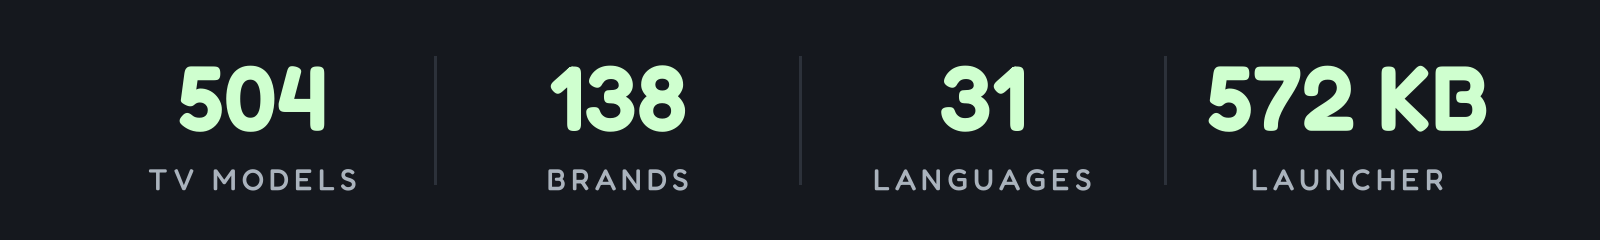
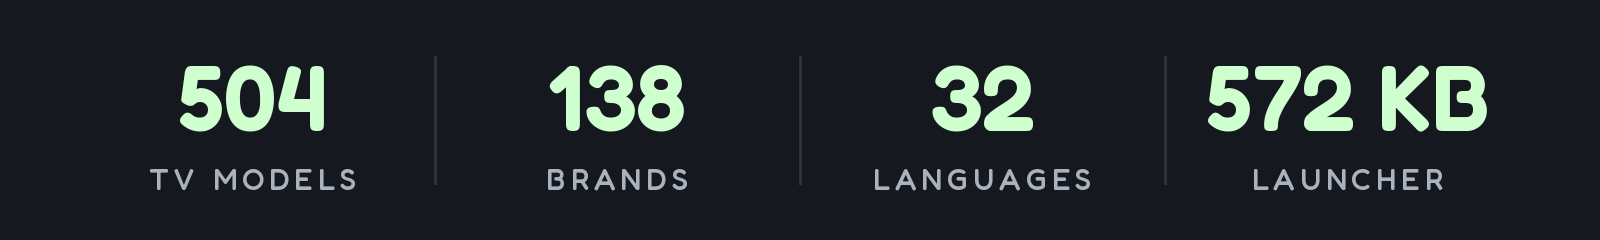
launcher: Japanese (values-ja), rebuilt on 3.6
All 145 strings and the one plurals resource, written for a television: labels
short enough for a tile, 設定 and アプリ and 壁紙 where Japanese says them,
product names left alone. Wired through locales_config.xml, the Languages list
in docs/launcher.md and NAMES in tests/test_locales_registered.py; the tables
were regenerated (thirty-two languages) and both pictures redrawn from them.

diff --git a/tools/readme_stats.py b/tools/readme_stats.py
@@ -102,7 +102,7 @@ try:
 except ImportError:
     sys.exit("readme_stats.py needs Pillow: tools/venv/bin/pip install -r tools/requirements-perf.txt")
 
-STATS = [("504", "TV MODELS"), ("138", "BRANDS"), ("31", "LANGUAGES"), ("572 KB", "LAUNCHER")]
+STATS = [("504", "TV MODELS"), ("138", "BRANDS"), ("32", "LANGUAGES"), ("572 KB", "LAUNCHER")]
 W, H = 1600, 240
 img = Image.new("RGB", (W, H), "#15181e"); d = ImageDraw.Draw(img)
 def f(size, wt):

diff --git a/tests/test_locales_registered.py b/tests/test_locales_registered.py
@@ -52,6 +52,7 @@ NAMES = {
     "in": "Indonesian",
     "it": "Italian",
     "iw": "Hebrew",
+    "ja": "Japanese",
     "ko": "Korean",
     "nb": "Norwegian Bokm\u00e5l",
     "nl": "Dutch",

diff --git a/README.uk.md b/README.uk.md
@@ -16,7 +16,7 @@
 </p>
 
 <p align="center">
-  <a href="docs/PRESS.md"><img src="docs/card.jpg" alt="504 моделі телевізорів · 138 брендів · 31 мова · лончер на 572 КБ. Про нас писали TechCrunch, TechRadar, Tom's Guide, Mashable, Android Authority, XDA, FlatpanelsHD, It's FOSS, Phandroid, GIGAZINE, Xataka, WinFuture, Frandroid, Macitynet, Techaeris, TechPP та ще 530 видань: 546 статті з 57 країн. Було: стандартний головний екран Google TV зі спонсорською рекламою. Стало: лончер Clean Your TV. Репозиторій №1 у трендах тижня, 19–25 жовтня 2026, через trendshift.io." width="800"></a>
+  <a href="docs/PRESS.md"><img src="docs/card.jpg" alt="504 моделі телевізорів · 138 брендів · 32 мови · лончер на 572 КБ. Про нас писали TechCrunch, TechRadar, Tom's Guide, Mashable, Android Authority, XDA, FlatpanelsHD, It's FOSS, Phandroid, GIGAZINE, Xataka, WinFuture, Frandroid, Macitynet, Techaeris, TechPP та ще 530 видань: 546 статті з 57 країн. Було: стандартний головний екран Google TV зі спонсорською рекламою. Стало: лончер Clean Your TV. Репозиторій №1 у трендах тижня, 19–25 жовтня 2026, через trendshift.io." width="800"></a>
 </p>
 
 ## З чого почати
@@ -281,7 +281,7 @@ Xiaomi (PatchWall). Передайте `STOCK_LAUNCHER=<package>` (`-StockLaunch
 | **Налаштування** | Порядок дока, приховані застосунки, застосунок ефірного ТБ, від 4 до 7 плиток у рядку, зменшений рух. Усе в [`config.xml`](launcher/app/src/main/res/values/config.xml) |
 | **Налаштування на телевізорі** | Утримайте OK на «Налаштуваннях», щоб відкрити налаштування лончера. Необов'язковий `launcher_settings_button` робить так, що звичайне натискання відкриває їх одразу; налаштування телевізора лишаються на сторінці налаштувань і на своїй плитці |
 | **Теми** | Тло, шпалери й розкладка з `config.json`, надісланого через Wi-Fi, без перезбирання. У [`themes/`](themes/) постачається тридцять три, включно з вбудованою `default/` |
-| **31 мова** | Дотримується мови телевізора, з повністю дзеркальним розкладом справа наліво для івриту |
+| **32 мови** | Дотримується мови телевізора, з повністю дзеркальним розкладом справа наліво для івриту |
 | **Бібліотека застосунків** | Необов'язково: перегляд усіх встановлених застосунків і додавання чи прибирання ярликів із головного екрана. Дивіться [посібник із бібліотеки застосунків](docs/app-library.md) |
 | **Меню плитки** | Увімкнено за замовчуванням (`tile_menu`): утримайте OK на плитці для «Перемістити» та «Про застосунок», а з увімкненою бібліотекою застосунків — ще й «Прибрати з головного». Вимкнено — утримання OK відкриває «Про застосунок» |
 | **Картки-модулі** | Будь-який застосунок на телевізорі може запропонувати власну плитку; ви схвалюєте кожну один раз. Дивіться [`docs/modules.md`](docs/modules.md) |

diff --git a/README.nl.md b/README.nl.md
@@ -29,7 +29,7 @@
 </p>
 
 <p align="center">
-  <a href="docs/PRESS.md"><img src="docs/card.jpg" alt="504 tv-modellen · 138 merken · 31 talen · launcher van 572 KB. Genoemd in TechCrunch, TechRadar, Tom's Guide, Mashable, Android Authority, XDA, FlatpanelsHD, It's FOSS, Phandroid, GIGAZINE, Xataka, WinFuture, Frandroid, Macitynet, Techaeris, TechPP en nog 530 media: 546 artikelen uit 57 landen. Voorheen: het standaard Google TV-startscherm met een gesponsorde advertentie. Daarna: de Clean Your TV-launcher. #1 trending repository van de week, 19–25 oktober 2026, via trendshift.io." width="800"></a>
+  <a href="docs/PRESS.md"><img src="docs/card.jpg" alt="504 tv-modellen · 138 merken · 32 talen · launcher van 572 KB. Genoemd in TechCrunch, TechRadar, Tom's Guide, Mashable, Android Authority, XDA, FlatpanelsHD, It's FOSS, Phandroid, GIGAZINE, Xataka, WinFuture, Frandroid, Macitynet, Techaeris, TechPP en nog 530 media: 546 artikelen uit 57 landen. Voorheen: het standaard Google TV-startscherm met een gesponsorde advertentie. Daarna: de Clean Your TV-launcher. #1 trending repository van de week, 19–25 oktober 2026, via trendshift.io." width="800"></a>
 </p>
 
 **De virale tweet:** [x.com/gathint/status/2111379569030939102](https://x.com/gathint/status/2111379569030939102)
@@ -761,7 +761,7 @@ De **tv** moet Android 8.0 (API 26) of nieuwer gebruiken. `minSdk` stelt de mini
 | **Configuratie** | Volgorde van het dock, verborgen apps, Live-tv-app, 4 tot 7 tegels per rij en minder beweging. Alles staat in [`config.xml`](launcher/app/src/main/res/values/config.xml). |
 | **Instellingen op de tv** | Houd OK ingedrukt op Instellingen om de launcherinstellingen te openen. Met de optionele instelling `launcher_settings_button` opent een gewone klik ze direct; de tv-instellingen blijven beschikbaar via de instellingenpagina en de tegel van die app. |
 | **Thema's** | Achtergrond, wallpaper en indeling komen uit een via wifi verzonden `config.json`; opnieuw bouwen is niet nodig. In [`themes/`](themes/) staan drieëndertig thema's, inclusief het ingebouwde `default/`. |
-| **31 talen** | Volgt de taal van de tv, met een volledig gespiegeld rechts-naar-links ontwerp voor Hebreeuws. |
+| **32 talen** | Volgt de taal van de tv, met een volledig gespiegeld rechts-naar-links ontwerp voor Hebreeuws. |
 | **Appbibliotheek** | Optioneel: bekijk alle geïnstalleerde apps en voeg snelkoppelingen op het startscherm toe of verwijder ze. Zie [de handleiding voor de appbibliotheek](docs/app-library.md). |
 | **Tegelmenu** | Standaard aan (`tile_menu`): houd OK ingedrukt op een tegel voor Verplaatsen en App-info, en met de appbibliotheek aan ook Verwijderen van startscherm. Staat dit uit, dan opent lang indrukken de app-info. |
 | **Modulekaarten** | Elke tv-app kan een eigen tegel aanbieden; je keurt elke app één keer goed. Zie [`docs/modules.md`](docs/modules.md). |

diff --git a/README.tr.md b/README.tr.md
@@ -16,7 +16,7 @@
 </p>
 
 <p align="center">
-  <a href="docs/PRESS.md"><img src="docs/card.jpg" alt="504 TV modeli · 138 marka · 31 dil · 572 KB başlatıcı. Yer aldığı yayınlar: TechCrunch, TechRadar, Tom's Guide, Mashable, Android Authority, XDA, FlatpanelsHD, It's FOSS, Phandroid, GIGAZINE, Xataka, WinFuture, Frandroid, Macitynet, Techaeris, TechPP ve 530 yayın daha: 57 ülkeden 546 makale. Önce: sponsorlu reklam içeren standart Google TV ana ekranı. Sonra: Clean Your TV başlatıcısı. Haftanın 1 numaralı trend deposu, 19–25 Ekim 2026, trendshift.io'ya göre." width="800"></a>
+  <a href="docs/PRESS.md"><img src="docs/card.jpg" alt="504 TV modeli · 138 marka · 32 dil · 572 KB başlatıcı. Yer aldığı yayınlar: TechCrunch, TechRadar, Tom's Guide, Mashable, Android Authority, XDA, FlatpanelsHD, It's FOSS, Phandroid, GIGAZINE, Xataka, WinFuture, Frandroid, Macitynet, Techaeris, TechPP ve 530 yayın daha: 57 ülkeden 546 makale. Önce: sponsorlu reklam içeren standart Google TV ana ekranı. Sonra: Clean Your TV başlatıcısı. Haftanın 1 numaralı trend deposu, 19–25 Ekim 2026, trendshift.io'ya göre." width="800"></a>
 </p>
 
 ## Buradan başlayın
@@ -280,7 +280,7 @@ bir cihazda neyin kaldığı [Sorun giderme](docs/TROUBLESHOOTING.md) belgesinde
 | **Yapılandırma** | Dock sırası, gizli uygulamalar, Canlı TV uygulaması, satır başına 4 ile 7 arası kutucuk, azaltılmış hareket. Hepsi [`config.xml`](launcher/app/src/main/res/values/config.xml) içinde |
 | **TV'deki ayarlar** | Başlatıcı ayarları için Ayarlar üzerinde OK'u basılı tutun. İsteğe bağlı `launcher_settings_button`, normal bir tıklamanın onları doğrudan açmasını sağlar; TV ayarları ayarlar sayfasında ve kendi uygulama kutucuğunda kalır. |
 | **Temalar** | Wi-Fi üzerinden gönderilen bir `config.json` ile arka plan, duvar kâğıdı ve düzen, yeniden derleme yok. Yerleşik `default/` dahil 33 tema [`themes/`](themes/) içinde gelir |
-| **31 dil** | TV'nin diline uyar; İbranice için tamamen aynalanmış, sağdan sola bir düzen sunar |
+| **32 dil** | TV'nin diline uyar; İbranice için tamamen aynalanmış, sağdan sola bir düzen sunar |
 | **Uygulama kitaplığı** | İsteğe bağlı: yüklü tüm uygulamalara göz atın ve Ana ekran kısayolları ekleyin veya kaldırın. Bkz. [uygulama kitaplığı kılavuzu](docs/app-library.md) |
 | **Kutucuk menüsü** | Varsayılan olarak açık (`tile_menu`): Taşı ve Uygulama bilgisi için bir kutucukta OK'u basılı tutun; uygulama kitaplığı açıksa Ana ekrandan kaldır da çıkar. Kapalıyken OK'u basılı tutmak Uygulama bilgisini açar |
 | **Modül kartları** | Herhangi bir TV uygulaması kendi kutucuğunu sunabilir; her birini bir kez onaylarsınız. Bkz. [`docs/modules.md`](docs/modules.md) |

diff --git a/README.de.md b/README.de.md
@@ -16,7 +16,7 @@
 </p>
 
 <p align="center">
-  <a href="docs/PRESS.md"><img src="docs/card.jpg" alt="504 TV-Modelle · 138 Marken · 31 Sprachen · Launcher mit 572 KB. Erwähnt in TechCrunch, TechRadar, Tom's Guide, Mashable, Android Authority, XDA, FlatpanelsHD, It's FOSS, Phandroid, GIGAZINE, Xataka, WinFuture, Frandroid, Macitynet, Techaeris, TechPP und 530 weitere: 546 Artikel aus 57 Ländern. Vorher: der Google-TV-Startbildschirm mit einer bezahlten Anzeige. Nachher: der Clean-Your-TV-Launcher. Platz 1 der Trend-Repositories der Woche, 19.–25. Oktober 2026, über trendshift.io." width="800"></a>
+  <a href="docs/PRESS.md"><img src="docs/card.jpg" alt="504 TV-Modelle · 138 Marken · 32 Sprachen · Launcher mit 572 KB. Erwähnt in TechCrunch, TechRadar, Tom's Guide, Mashable, Android Authority, XDA, FlatpanelsHD, It's FOSS, Phandroid, GIGAZINE, Xataka, WinFuture, Frandroid, Macitynet, Techaeris, TechPP und 530 weitere: 546 Artikel aus 57 Ländern. Vorher: der Google-TV-Startbildschirm mit einer bezahlten Anzeige. Nachher: der Clean-Your-TV-Launcher. Platz 1 der Trend-Repositories der Woche, 19.–25. Oktober 2026, über trendshift.io." width="800"></a>
 </p>
 
 ## Einstieg
@@ -258,7 +258,7 @@ Gerät übrig bleibt, steht in der [Fehlerbehebung](docs/TROUBLESHOOTING.md).
 | **Einrichten** | Dock-Reihenfolge, versteckte Apps, Live-TV-App, 4 bis 7 Kacheln je Zeile, reduzierte Bewegung. Alles in [`config.xml`](launcher/app/src/main/res/values/config.xml) |
 | **Einstellungen am Fernseher** | OK auf Einstellungen halten für die Launcher-Einstellungen. Ein optionales `launcher_settings_button` lässt einen normalen Klick sie direkt öffnen; die TV-Einstellungen bleiben auf der Einstellungsseite und ihrer App-Kachel. |
 | **Themes** | Hintergrund, Wallpaper und Layout aus einer `config.json`, über WLAN aufgespielt, ohne neuen Build. Dreiunddreißig liegen in [`themes/`](themes/), das eingebaute `default/` mitgerechnet |
-| **31 Sprachen** | Folgt der Sprache des Fernsehers, mit vollständig gespiegeltem Layout von rechts nach links für Hebräisch |
+| **32 Sprachen** | Folgt der Sprache des Fernsehers, mit vollständig gespiegeltem Layout von rechts nach links für Hebräisch |
 | **App-Bibliothek** | Optional: jede installierte App durchsehen und Home-Verknüpfungen hinzufügen oder entfernen. Siehe [die Anleitung zur App-Bibliothek](docs/app-library.md) |
 | **Kachelmenü** | Standardmäßig an (`tile_menu`): OK auf einer Kachel halten für Verschieben und App-Info, mit eingeschalteter App-Bibliothek auch Von Home entfernen. Aus: OK halten öffnet App-Info |
 | **Modul-Karten** | Jede TV-App kann eine eigene Kachel anbieten; du stimmst jeder einmal zu. Siehe [`docs/modules.md`](docs/modules.md) |

diff --git a/README.md b/README.md
@@ -16,7 +16,7 @@
 </p>
 
 <p align="center">
-  <a href="docs/PRESS.md"><img src="docs/card.jpg" alt="504 TV models · 138 brands · 31 languages · 572 KB launcher. Featured in TechCrunch, TechRadar, Tom's Guide, Mashable, Android Authority, XDA, FlatpanelsHD, It's FOSS, Phandroid, GIGAZINE, Xataka, WinFuture, Frandroid, Macitynet, Techaeris, TechPP and 530 more: 546 articles from 57 countries. Before: stock Google TV home with a sponsored ad. After: the Clean Your TV launcher. #1 trending repo of the week, Oct 19–25 2026, via trendshift.io." width="800"></a>
+  <a href="docs/PRESS.md"><img src="docs/card.jpg" alt="504 TV models · 138 brands · 32 languages · 572 KB launcher. Featured in TechCrunch, TechRadar, Tom's Guide, Mashable, Android Authority, XDA, FlatpanelsHD, It's FOSS, Phandroid, GIGAZINE, Xataka, WinFuture, Frandroid, Macitynet, Techaeris, TechPP and 530 more: 546 articles from 57 countries. Before: stock Google TV home with a sponsored ad. After: the Clean Your TV launcher. #1 trending repo of the week, Oct 19–25 2026, via trendshift.io." width="800"></a>
 </p>
 
 ## Start here
@@ -283,7 +283,7 @@ set is in [Troubleshooting](docs/TROUBLESHOOTING.md).
 | **Configure** | Dock order, hidden apps, Live TV app, 4 to 7 tiles per row, reduced motion. All in [`config.xml`](launcher/app/src/main/res/values/config.xml) |
 | **Settings on the TV** | Hold OK on Settings for launcher settings. Optional `launcher_settings_button` makes a normal click open them directly; TV settings remain on the settings page and their app tile. |
 | **Themes** | Background, wallpaper and layout from a `config.json` pushed over Wi-Fi, no rebuild. Thirty-three ship in [`themes/`](themes/), the built-in `default/` included |
-| **31 languages** | Follows the TV's language, with a fully mirrored right-to-left layout for Hebrew |
+| **32 languages** | Follows the TV's language, with a fully mirrored right-to-left layout for Hebrew |
 | **App library** | Optional: browse every installed app and add or remove Home shortcuts. See [the app library guide](docs/app-library.md) |
 | **Tile menu** | On by default (`tile_menu`): hold OK on a tile for Move and App info, plus Remove from Home when the app library is on. Off, holding OK opens App info |
 | **Module cards** | Any TV app can offer its own tile; you approve each one once. See [`docs/modules.md`](docs/modules.md) |

diff --git a/README.he.md b/README.he.md
@@ -239,7 +239,7 @@ TV_HOST=192.168.1.50 tools/venv/bin/python -I tools/privacy.py
 | **התאמה אישית** | סדר המועדפים, אפליקציות מוסתרות, אפליקציית שידור חי, 4 עד 7 אריחים בשורה והפחתת תנועה. ההגדרות נמצאות ב־[config.xml](launcher/app/src/main/res/values/config.xml). |
 | **הגדרות בטלוויזיה** | לחיצה ארוכה על OK בכפתור ההגדרות פותחת את הגדרות מסך הבית. עם <code dir="ltr">launcher_settings_button</code> מספיקה לחיצה רגילה. הגדרות הטלוויזיה זמינות גם מדף ההגדרות ומאריח האפליקציה. |
 | **ערכות עיצוב** | רקע, תמונה ופריסה מקובץ <code dir="ltr">config.json</code> שנשלח דרך הרשת. יש 33 ערכות ב־[themes](themes/), כולל ברירת המחדל. |
-| **31 שפות** | השפה נקבעת לפי הטלוויזיה. בעברית הפריסה מוצגת מימין לשמאל. |
+| **32 שפות** | השפה נקבעת לפי הטלוויזיה. בעברית הפריסה מוצגת מימין לשמאל. |
 | **ספריית אפליקציות** | אפשר לדפדף בכל האפליקציות המותקנות ולהוסיף או להסיר קיצורי דרך ממסך הבית. [מדריך](docs/app-library.md) |
 | **תפריט אריח** | <code dir="ltr">tile_menu</code> מופעל כברירת מחדל. לחיצה ארוכה על OK מאפשרת להזיז אריח ולפתוח פרטי אפליקציה. כשספריית האפליקציות מופעלת אפשר גם להסיר את האריח מהבית. כשהתפריט כבוי, לחיצה ארוכה פותחת את פרטי האפליקציה. |
 | **כרטיסי תוספים** | אפליקציות יכולות להציע אריח שמוצג לאחר אישור חד־פעמי. [מפרט הכרטיסים](docs/modules.md) |

diff --git a/README.es.md b/README.es.md
@@ -220,7 +220,7 @@ Una pantalla de inicio nativa y muy ligera para Android TV: **unos 572 KB**, pro
 | **Configuración** | Orden del dock, aplicaciones ocultas, app de TV en directo, de 4 a 7 elementos por fila y animaciones reducidas. Todo definido en [`config.xml`](launcher/app/src/main/res/values/config.xml). |
 | **Ajustes en el televisor** | Mantén OK pulsado en Ajustes para acceder a las opciones del launcher. Opcionalmente, `launcher_settings_button` permite que una pulsación simple las abra directamente; la configuración del televisor continúa accesible desde la propia página de ajustes y mediante el icono correspondiente. |
 | **Temas** | Fondo, fondo de pantalla y diseño definidos en un `config.json` enviado por Wi-Fi, sin recompilar. 33 temas están incluidos en [`themes/`](themes/), incluyendo el `default/` integrado. |
-| **31 idiomas** | Sigue el idioma del televisor, con un diseño totalmente reflejado de derecha a izquierda en hebreo. |
+| **32 idiomas** | Sigue el idioma del televisor, con un diseño totalmente reflejado de derecha a izquierda en hebreo. |
 | **Biblioteca de aplicaciones** | Opcional: permite explorar todas las aplicaciones instaladas y agregar o retirar accesos directos de la pantalla de inicio. Consulta [la guía de la biblioteca de aplicaciones](docs/app-library.md). |
 | **Menú contextual de elementos** | Habilitado por defecto (`tile_menu`): mantén OK pulsado sobre un elemento para acceder a Mover, Quitar de la pantalla de inicio e Información de la app. Si se desactiva, mantener OK pulsado abre Información de la app directamente. |
 | **Tarjetas de módulos** | Cualquier aplicación de TV puede incorporar su propio bloque informativo; autorizas cada una una sola vez. Consulta [`docs/modules.md`](docs/modules.md). |

diff --git a/README.fr.md b/README.fr.md
@@ -285,7 +285,7 @@ décrit dans le [dépannage](docs/TROUBLESHOOTING.md).
 | **Configuration** | Ordre du dock, applications masquées, application de TV en direct, de 4 à 7 vignettes par rangée, animations réduites. Tout se trouve dans [`config.xml`](launcher/app/src/main/res/values/config.xml) |
 | **Réglages sur le téléviseur** | Maintenez OK sur Paramètres pour ouvrir les réglages du launcher. L'option `launcher_settings_button` permet de les ouvrir directement d'un simple clic ; les réglages du téléviseur restent accessibles depuis la page des réglages et leur vignette d'application. |
 | **Thèmes** | Arrière-plan, fond d'écran et disposition à partir d'un `config.json` envoyé par Wi-Fi, sans recompilation. 33 thèmes sont fournis dans [`themes/`](themes/), y compris le `default/` intégré |
-| **31 langues** | Suit la langue du téléviseur, avec une disposition de droite à gauche entièrement inversée pour l'hébreu |
+| **32 langues** | Suit la langue du téléviseur, avec une disposition de droite à gauche entièrement inversée pour l'hébreu |
 | **Bibliothèque d'applications** | Facultative : parcourez toutes les applications installées et ajoutez ou retirez des raccourcis sur l'accueil. Voir [le guide de la bibliothèque d'applications](docs/app-library.md) |
 | **Menu des vignettes** | Activé par défaut (`tile_menu`) : maintenez OK sur une vignette pour Déplacer et Infos sur l'appli, plus Retirer de l'accueil lorsque la bibliothèque d'applications est activée. Désactivé, maintenir OK ouvre Infos sur l'appli |
 | **Cartes de modules** | N'importe quelle application TV peut proposer sa propre vignette ; vous approuvez chacune une seule fois. Voir [`docs/modules.md`](docs/modules.md) |

diff --git a/README.pt-BR.md b/README.pt-BR.md
@@ -284,7 +284,7 @@ explicado em [Solução de problemas](docs/TROUBLESHOOTING.md).
 | **Configuração** | Ordem do dock, aplicativos ocultos, aplicativo de TV ao vivo, de 4 a 7 blocos por linha e animações reduzidas. Tudo em [`config.xml`](launcher/app/src/main/res/values/config.xml). |
 | **Configurações na TV** | Mantenha OK pressionado em Configurações para abrir as configurações do launcher. Opcionalmente, `launcher_settings_button` faz com que um clique normal as abra diretamente; as configurações da TV continuam disponíveis na página de configurações e no bloco do aplicativo correspondente. |
 | **Temas** | Plano de fundo, papel de parede e layout definidos em um `config.json` enviado pelo Wi-Fi, sem recompilação. 33 temas estão incluídos em [`themes/`](themes/), incluindo o `default/` integrado. |
-| **31 idiomas** | Segue o idioma da TV, com layout totalmente espelhado da direita para a esquerda em hebraico. |
+| **32 idiomas** | Segue o idioma da TV, com layout totalmente espelhado da direita para a esquerda em hebraico. |
 | **Biblioteca de aplicativos** | Opcional: permite navegar por todos os aplicativos instalados e adicionar ou remover atalhos da tela inicial. Consulte [o guia da biblioteca de aplicativos](docs/app-library.md). |
 | **Menu dos blocos** | Ativado por padrão (`tile_menu`): mantenha OK pressionado em um bloco para acessar Mover, Remover da tela inicial e Informações do app. Se estiver desativado, manter OK pressionado abre Informações do app. |
 | **Cartões de módulos** | Qualquer aplicativo de TV pode oferecer seu próprio bloco; você aprova cada um apenas uma vez. Consulte [`docs/modules.md`](docs/modules.md). |

diff --git a/README.uz.md b/README.uz.md
@@ -278,7 +278,7 @@ Eskiroq qurilmada nima qolgani [Nosozliklarni bartaraf etish](docs/TROUBLESHOOTI
 | **Sozlash** | Dock tartibi, yashirin ilovalar, Jonli TV ilovasi, qatoriga 4 dan 7 gacha katakcha, kamaytirilgan harakat. Hammasi [`config.xml`](launcher/app/src/main/res/values/config.xml) da |
 | **Televizordagi sozlamalar** | Launcher sozlamalari uchun Sozlamalar ustida OK ni bosib turing. Ixtiyoriy `launcher_settings_button` oddiy bosish ularni toʻgʻridan-toʻgʻri ochishini taʼminlaydi; televizor sozlamalari sozlamalar sahifasida va oʻz ilova katakchasida qoladi. |
 | **Mavzular** | Wi-Fi orqali yuborilgan `config.json` bilan fon, fon rasmi va joylashuv, qayta yigʻish yoʻq. Ichki `default/` bilan birga 33 ta mavzu [`themes/`](themes/) da keladi |
-| **31 til** | Televizor tiliga ergashadi; ivrit uchun toʻliq oynalashtirilgan, oʻngdan chapga joylashuv |
+| **32 til** | Televizor tiliga ergashadi; ivrit uchun toʻliq oynalashtirilgan, oʻngdan chapga joylashuv |
 | **Ilovalar kutubxonasi** | Ixtiyoriy: oʻrnatilgan barcha ilovalarni koʻrib chiqing va Home yorliqlarini qoʻshing yoki olib tashlang. Qarang: [ilovalar kutubxonasi qoʻllanmasi](docs/app-library.md) |
 | **Katakcha menyusi** | Standart boʻyicha yoqilgan (`tile_menu`): Koʻchirish va Ilova maʼlumoti uchun katakchada OK ni bosib turing; ilovalar kutubxonasi yoqilganda Home dan olib tashlash ham chiqadi. Oʻchiqda OK ni bosib turish Ilova maʼlumotini ochadi |
 | **Modul kartochkalari** | Har qanday TV ilovasi oʻz katakchasini taklif qilishi mumkin; har birini bir marta tasdiqlaysiz. Qarang: [`docs/modules.md`](docs/modules.md) |
